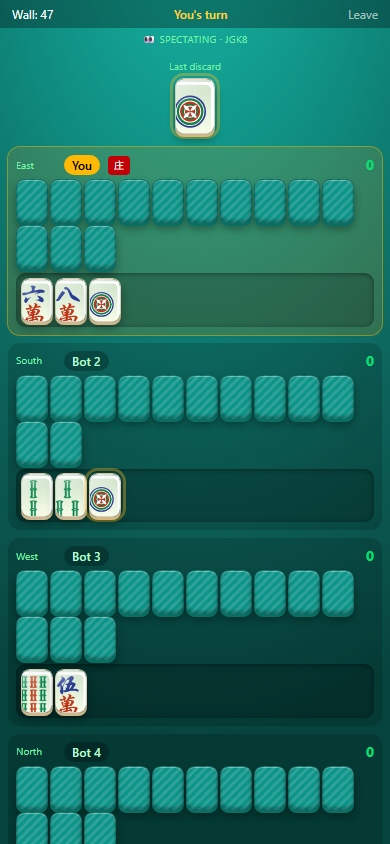
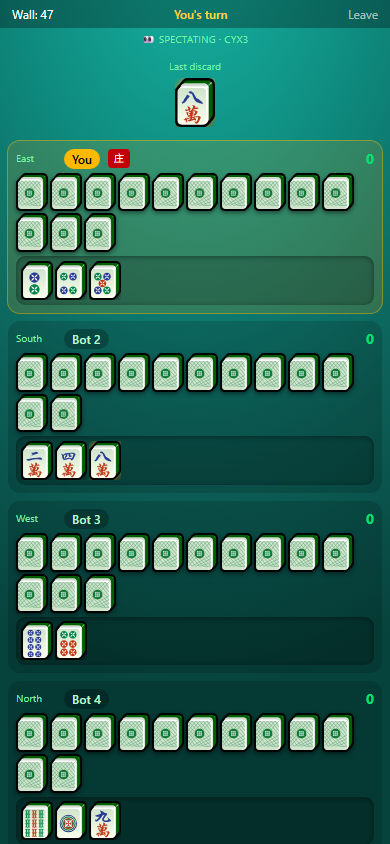
Tiles: render the SVG as the whole tile (centered, no crop); backs use back.svg so faces+backs share one green

diff --git a/packages/client/src/index.css b/packages/client/src/index.css
@@ -12,91 +12,46 @@ body {
 }
 
 /* ---------------------------------------------------------------------------
-   Tiles — glossy ivory pieces with real thickness
+   Tiles — the source SVGs (faces AND back.svg) are already complete 3D tiles
+   with their own bevelled green sides, so the container is just a transparent
+   holder. Drawing our own tile background under them caused a "tile within a
+   tile"; instead we let the SVG BE the tile and only add a drop-shadow lift.
 --------------------------------------------------------------------------- */
 .tile {
   position: relative;
   display: inline-flex;
-  align-items: center;
-  justify-content: center;
-  border-radius: 0.55rem;
-  border: 1px solid rgba(120, 90, 40, 0.28);
-  background: linear-gradient(158deg, #ffffff 0%, #fdf7e6 52%, #f4ebd0 100%);
+  /* Match the SVG proportions (210×255) so it fills, centred, with no letterbox. */
+  aspect-ratio: 210 / 255;
   user-select: none;
   cursor: pointer;
-  /* inset top sheen + inner bottom shade + solid bottom edge (thickness) + drop shadow */
-  box-shadow:
-    inset 0 1px 0 rgba(255, 255, 255, 0.9),
-    inset 0 -2px 3px rgba(140, 110, 60, 0.18),
-    0 3px 0 #cdb78d,
-    0 6px 9px rgba(0, 0, 0, 0.33);
-  transition: box-shadow 0.15s ease, filter 0.15s ease;
 }
 
-/* Face graphic. The source SVGs each draw their OWN bordered tile inside the
-   viewBox, so we scale up + cover-crop to push that border past the rounded clip
-   and expose just the symbol on our tile face (no "tile within a tile"). */
 .tile-face {
   width: 100%;
   height: 100%;
-  object-fit: cover;
-  transform: scale(1.34);
+  object-fit: contain;
+  /* Shadow follows the tile's rounded silhouette (drop-shadow respects alpha). */
+  filter: drop-shadow(0 2px 2px rgba(0, 0, 0, 0.45));
+  transition: filter 0.15s ease;
 }
 
-/* Glassy diagonal highlight */
-.tile::after {
-  content: "";
-  position: absolute;
-  inset: 0;
-  border-radius: inherit;
-  pointer-events: none;
-  background: linear-gradient(150deg, rgba(255, 255, 255, 0.5) 0%, rgba(255, 255, 255, 0) 40%);
+.tile.is-selected .tile-face {
+  filter:
+    drop-shadow(0 0 3px rgba(251, 191, 36, 0.95))
+    drop-shadow(0 4px 4px rgba(0, 0, 0, 0.45));
 }
 
-.tile.is-selected {
-  border-color: #f59e0b;
-  box-shadow:
-    inset 0 1px 0 rgba(255, 255, 255, 0.9),
-    0 3px 0 #cdb78d,
-    0 0 0 3px rgba(251, 191, 36, 0.75),
-    0 12px 20px rgba(0, 0, 0, 0.42);
-}
-
-/* Tile back — patterned vibrant jade */
-.tile-back {
-  border: 1px solid rgba(0, 0, 0, 0.28);
-  background-color: #0d9488;
-  background-image:
-    linear-gradient(
-      135deg,
-      rgba(255, 255, 255, 0.14) 25%,
-      transparent 25%,
-      transparent 50%,
-      rgba(255, 255, 255, 0.14) 50%,
-      rgba(255, 255, 255, 0.14) 75%,
-      transparent 75%
-    );
-  background-size: 0.55rem 0.55rem;
-  cursor: default;
-  /* Lip (the 3D bottom edge) is a darker shade of the SAME green as the back
-     face, so a turned-over tile reads as one solid green piece. */
-  box-shadow:
-    inset 0 1px 0 rgba(255, 255, 255, 0.35),
-    inset 0 -2px 3px rgba(0, 0, 0, 0.28),
-    0 3px 0 #0a6e63,
-    0 6px 9px rgba(0, 0, 0, 0.33);
-}
-.tile-back::after { content: none; }
-
-.tile-last-discard {
-  outline: 3px solid #fbbf24;
-  outline-offset: 2px;
+.tile-last-discard .tile-face {
   animation: tile-pulse 1.4s ease-in-out infinite;
 }
 
 @keyframes tile-pulse {
-  0%, 100% { outline-color: rgba(251, 191, 36, 0.9); }
-  50%      { outline-color: rgba(251, 191, 36, 0.35); }
+  0%, 100% {
+    filter: drop-shadow(0 0 4px rgba(251, 191, 36, 0.95)) drop-shadow(0 2px 2px rgba(0, 0, 0, 0.45));
+  }
+  50% {
+    filter: drop-shadow(0 0 1px rgba(251, 191, 36, 0.35)) drop-shadow(0 2px 2px rgba(0, 0, 0, 0.45));
+  }
 }
 
 /* ---------------------------------------------------------------------------

diff --git a/packages/client/src/components/Tile.tsx b/packages/client/src/components/Tile.tsx
@@ -4,11 +4,12 @@ import { tileTypeOf, tileFromType } from '@sichuan-mahjong/engine';
 import type { TileId } from '@sichuan-mahjong/engine';
 import { useLongPress } from '../hooks/useLongPress.js';
 
+// Width only — height comes from the tile's aspect-ratio (see .tile in index.css).
 const SIZE_CLASSES = {
-  sm: 'w-8 h-11',
-  md: 'w-10 h-14',
-  lg: 'w-14 h-20',
-  xl: 'w-20 h-28',
+  sm: 'w-8',
+  md: 'w-10',
+  lg: 'w-14',
+  xl: 'w-20',
 };
 
 export type TileProps = {
@@ -78,5 +79,9 @@ export function Tile({ id, selected = false, lastDiscard = false, onClick, size 
 }
 
 export function TileBack({ size = 'md' }: { size?: 'sm' | 'md' | 'lg' }) {
-  return <div className={`tile tile-back overflow-hidden ${SIZE_CLASSES[size]}`} />;
+  return (
+    <div className={`tile ${SIZE_CLASSES[size]}`}>
+      <img src="/tiles/back.svg" alt="" className="tile-face" draggable={false} />
+    </div>
+  );
 }